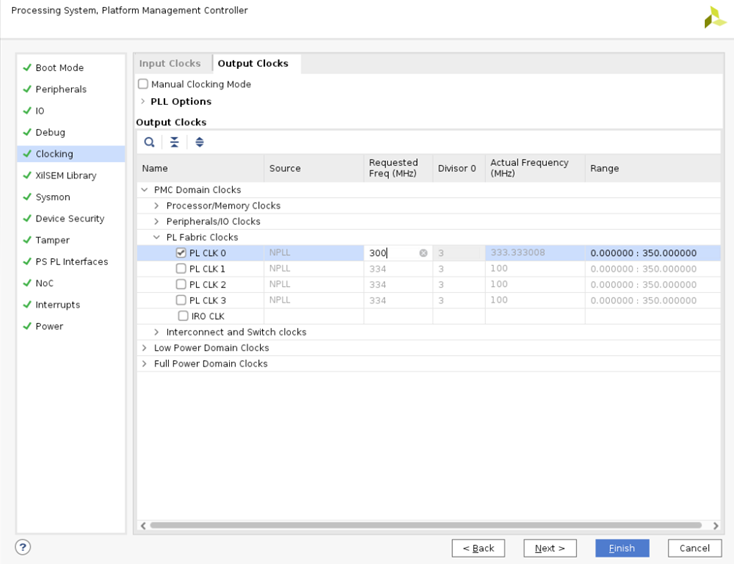
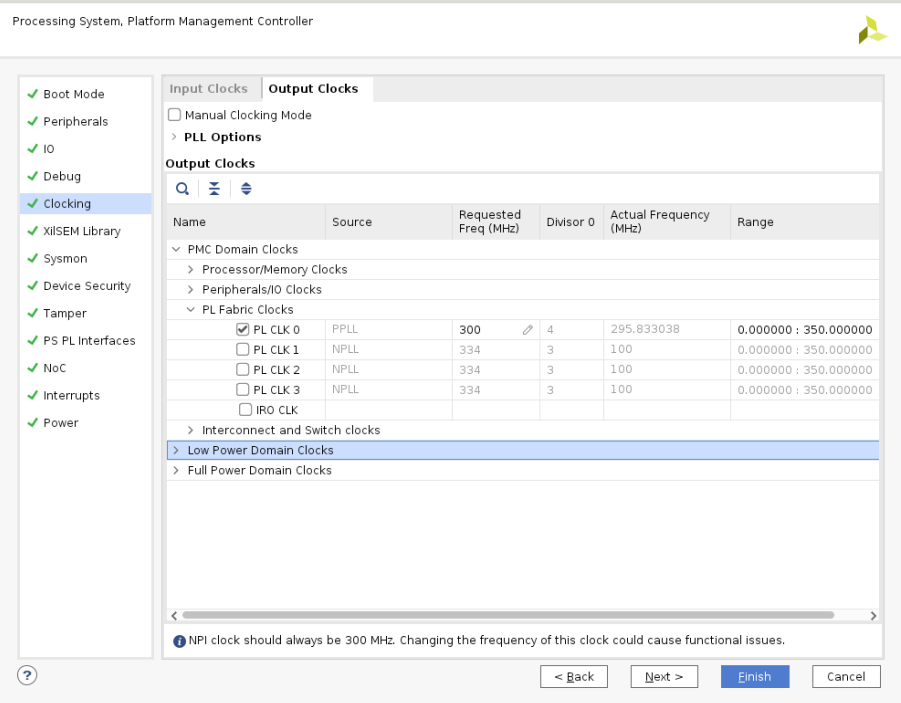
Updated Versal EDT for 2022.2

diff --git a/docs/Introduction/Versal-EDT/docs/7-system-design-example-ssit-device.rst b/docs/Introduction/Versal-EDT/docs/7-system-design-example-ssit-device.rst
@@ -188,7 +188,7 @@ To connect the PL IPs to CIPS, follow these steps.
 	
 4. Click **Clocking**, and then click on the Output Clocks tab.
 
-5. Expand PMC Domain Clocks. Then expand PL Fabric Clocks. Configure the PL0_REF_CLK to 300 MHz as shown in the following figure:
+5. Expand PMC Domain Clocks. Then expand PL Fabric Clocks. Configure the PL0_REF_CLK (PL CLK 0) to 300 MHz as shown in the following figure:
 
    .. image:: ./media/clocking_ps_PMC.png
       :width: 600
